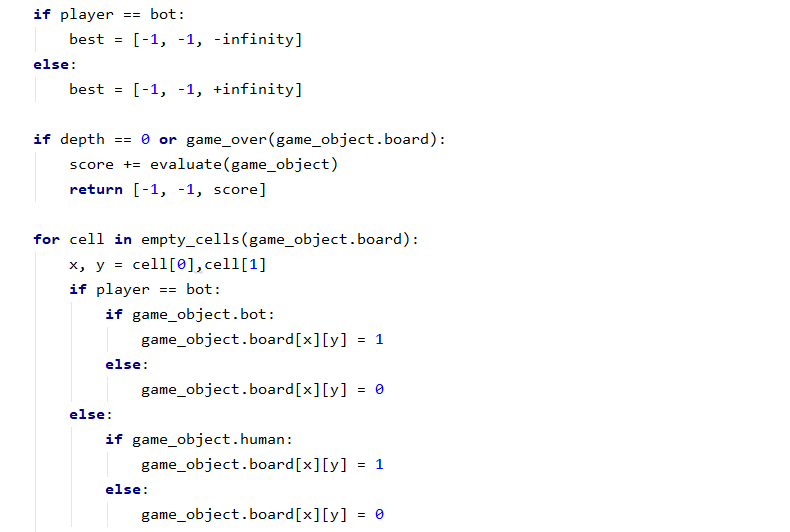
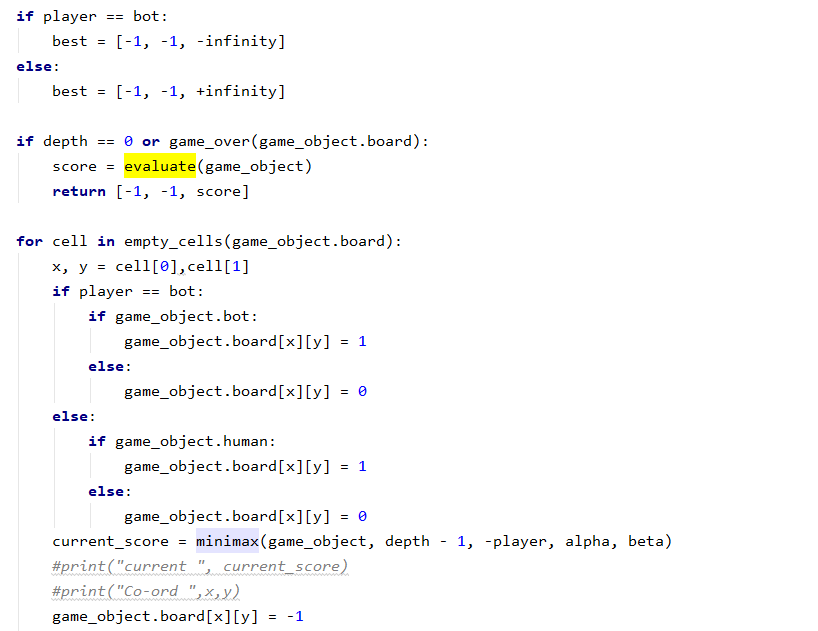
added images

diff --git a/firstcapturego.py b/firstcapturego.py
@@ -21,7 +21,7 @@ class FirstCaptureGo:
         """
         self.board = []
         self.visited = []
-        self.prior_states = []
+        #self.prior_states = []
         for i in range(side_len):
             self.board.append([])
             self.visited.append([])
@@ -205,13 +205,14 @@ def randomized_moves(board , count, game_object):
             # else:
             i = random.randint(0, len(possible_moves) - 1)
             x, y = possible_moves.pop(i)
-
             if game_object.bot:
                 board[x][y] = 1
             else:
                 board[x][y] = 0
             turn = 2
             count -= 1
+            if game_over(board):
+                break
             continue
         else:
             #possible_attack = smart_play(board, game_object.human)
@@ -222,15 +223,17 @@ def randomized_moves(board , count, game_object):
             # else:
             i = random.randint(0, len(possible_moves) - 1)
             x, y = possible_moves.pop(i)
-
             if game_object.human:
                 board[x][y] = 1
             else:
                 board[x][y] = 0
             turn = 1
             count -= 1
+            if game_over(board):
+                break
             continue
     return board
+
 
 def evaluate(game_object):
     """
@@ -271,7 +274,7 @@ def empty_cells(board):
                 empty_cells.append([x, y])
     return empty_cells
 
-def minimax(game_object, depth, player, alpha, beta, score):
+def minimax(game_object, depth, player, alpha, beta):
     """
     Evaluates the best move based on the minimax algorithm. Alpha beta pruning is implemented to improve the performance of the code
     :param game_object Class instance: Current game instance
@@ -287,7 +290,7 @@ def minimax(game_object, depth, player, alpha, beta, score):
         best = [-1, -1, +infinity]
 
     if depth == 0 or game_over(game_object.board):
-        score += evaluate(game_object)
+        score = evaluate(game_object)
         return [-1, -1, score]
 
     for cell in empty_cells(game_object.board):
@@ -302,7 +305,7 @@ def minimax(game_object, depth, player, alpha, beta, score):
                 game_object.board[x][y] = 1
             else:
                 game_object.board[x][y] = 0
-        current_score = minimax(game_object, depth - 1, -player, alpha, beta, score)
+        current_score = minimax(game_object, depth - 1, -player, alpha, beta)
         #print("current ", current_score)
         #print("Co-ord ",x,y)
         game_object.board[x][y] = -1
@@ -386,8 +389,8 @@ def play_fcg_cvh(side_len):
             else:
                 print("Bot's Turn")
                 # best_move = minimax(game_object,len(empty_cells(game_object.board)),bot)
-                score = 0
-                best_move = minimax(game_object, 5, bot, -infinity, infinity, score)
+                #score = 0
+                best_move = minimax(game_object, 5, bot, -infinity, infinity)
                 x, y = best_move[0], best_move[1]
                 game_object.board[x][y] = 1
                 game_object.visited[x][y] = 1
@@ -417,8 +420,8 @@ def play_fcg_cvh(side_len):
                 turn = 1
             else:
                 print("Bot's Turn")
-                score = 0
-                best_move = minimax(game_object, 5 , bot, -infinity, infinity, score)
+                #score = 0
+                best_move = minimax(game_object, 5 , bot, -infinity, infinity)
                 x, y = best_move[0], best_move[1]
                 game_object.board[x][y] = 0
                 game_object.visited[x][y] = 1
@@ -438,3 +441,4 @@ if __name__ == '__main__':
     print("You are playing against the bot")
     #game_type = int(input())
     play_fcg_cvh(side_len)
+
